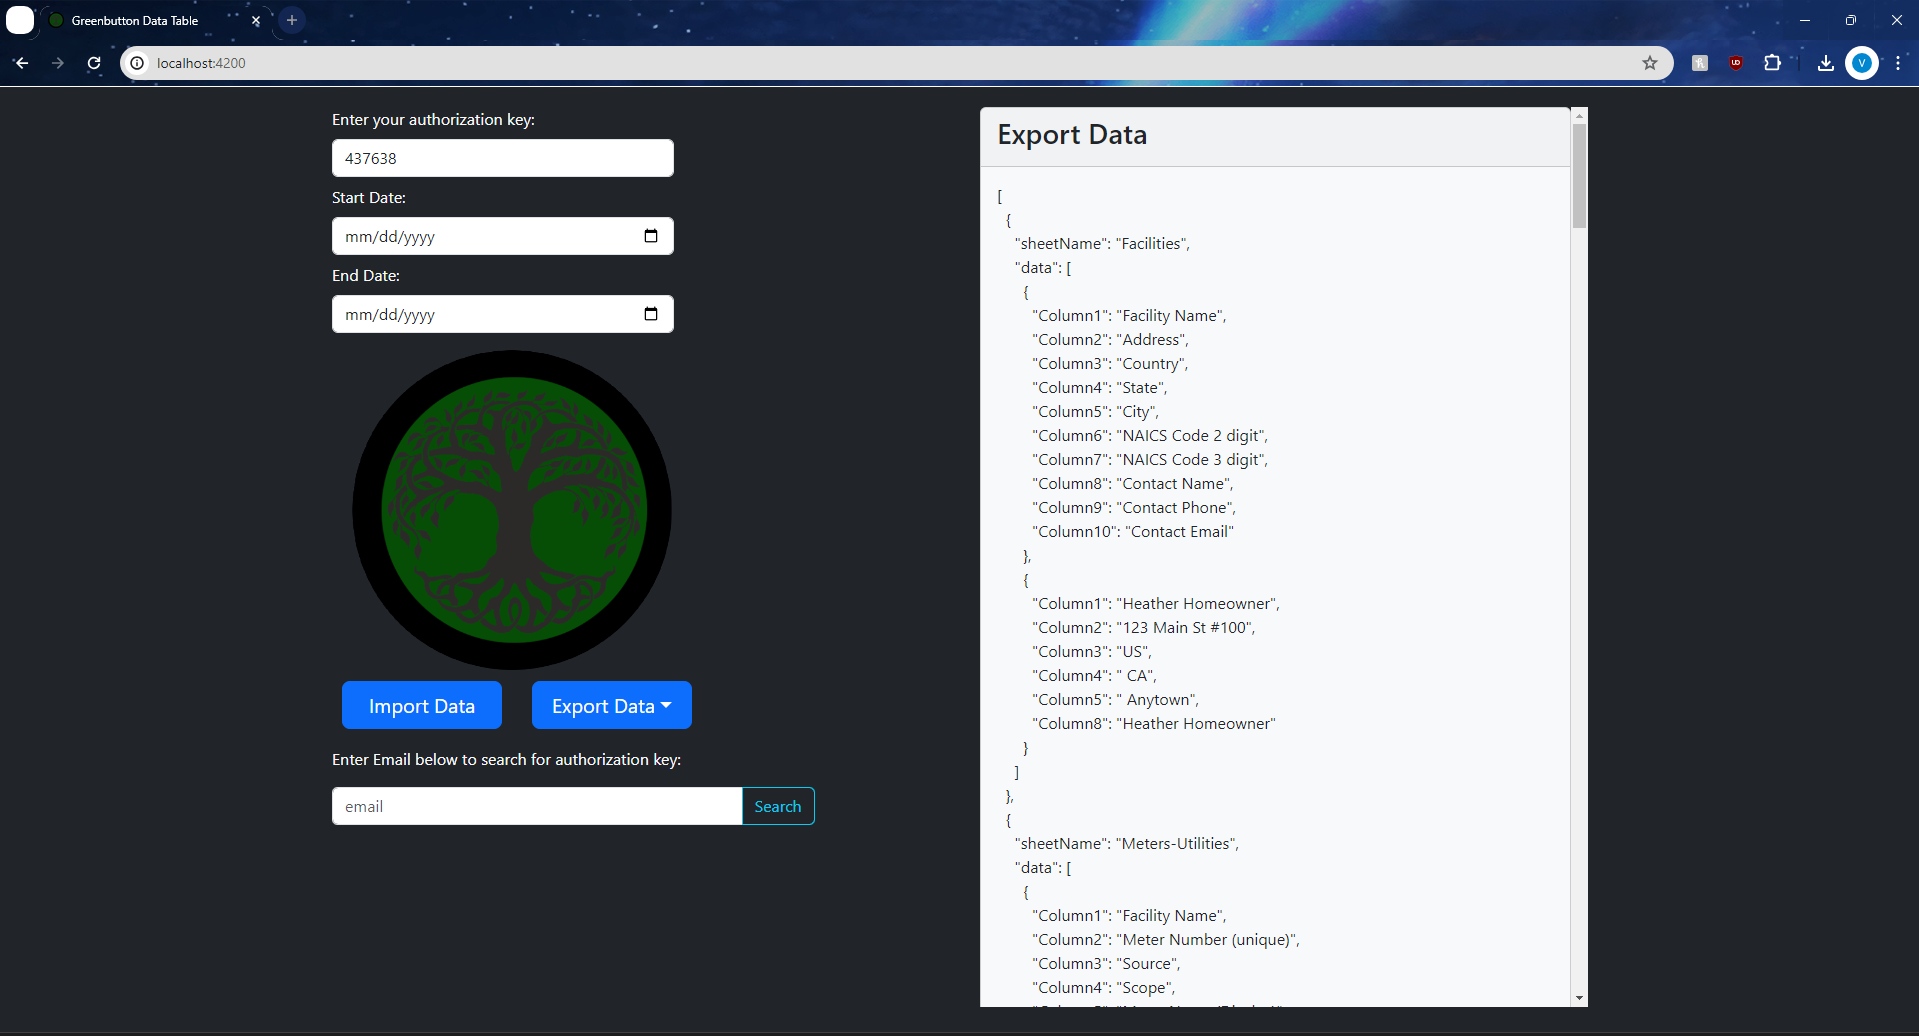
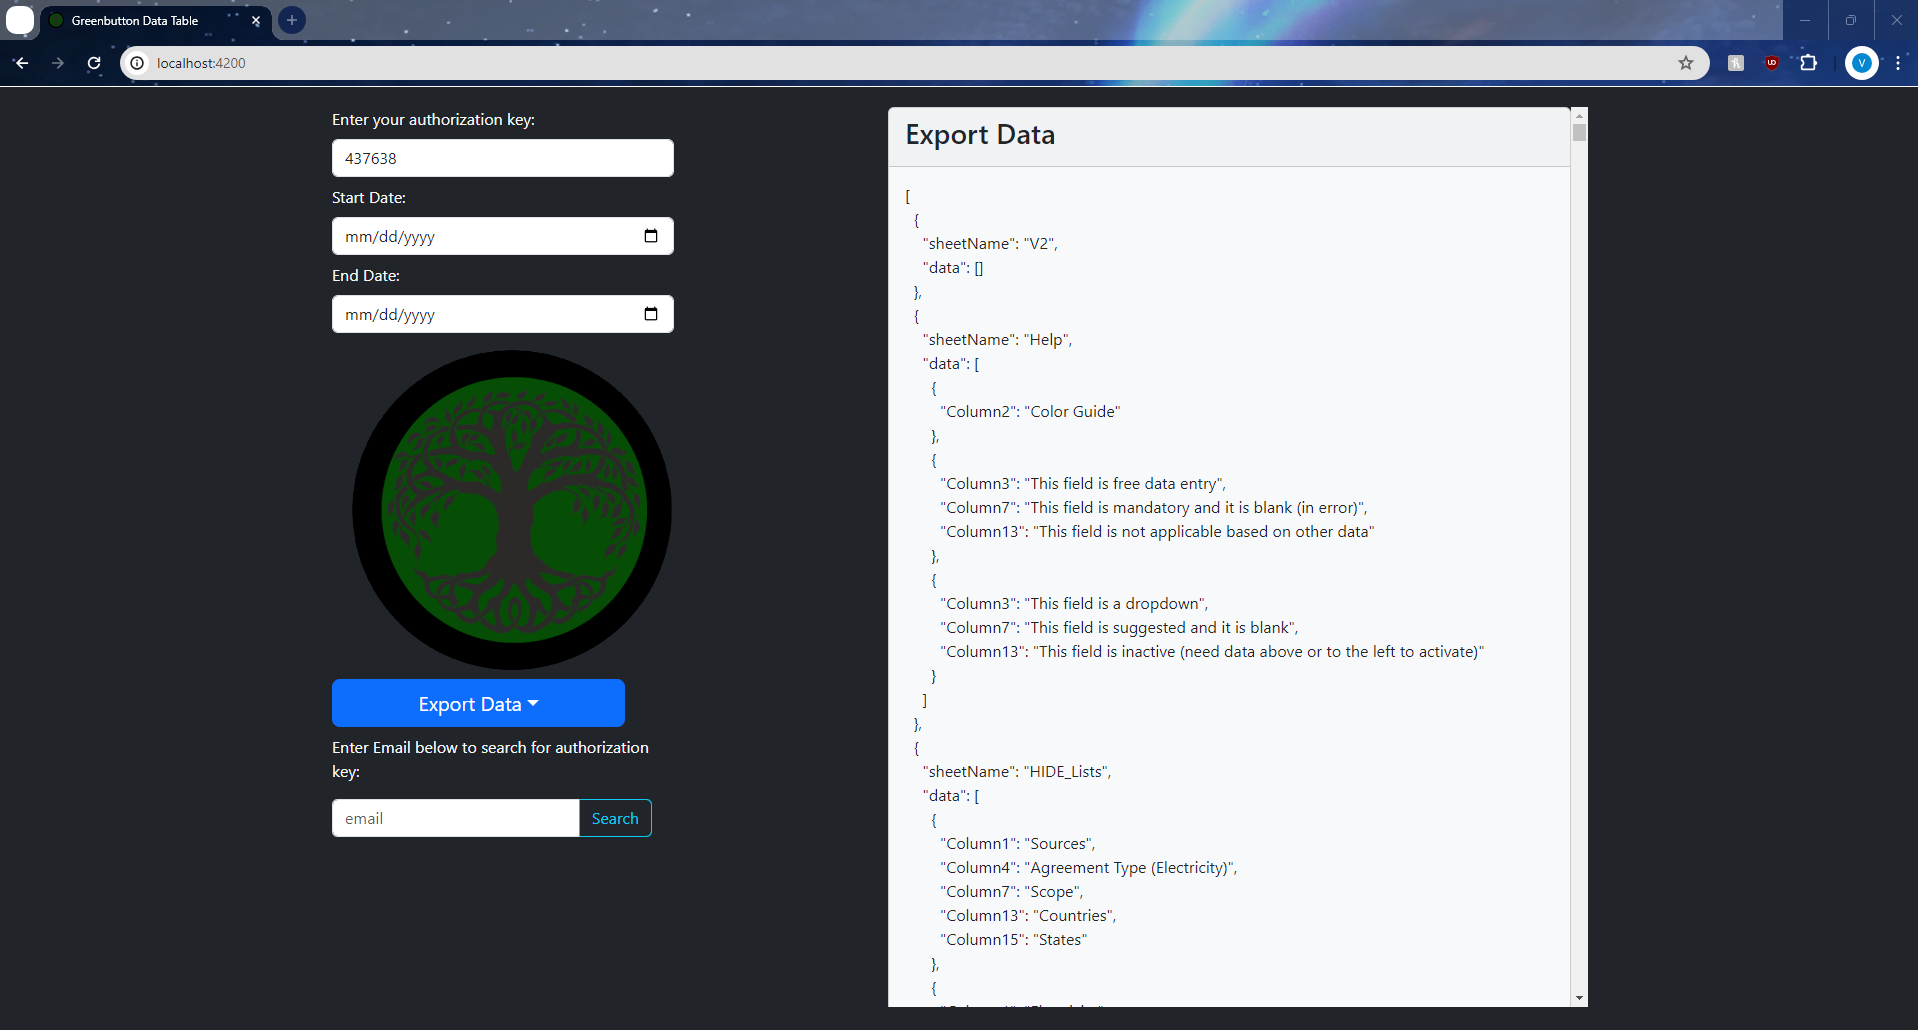
fixed export display and change Image for README

diff --git a/src/app/app.component.html b/src/app/app.component.html
@@ -26,22 +26,23 @@
             </form>
           </div>
           <div class="container">
-            <form id="inputFile" class="col-12">
+            <form id="inputFile" class="col-8">
+              <div class="row">
                 <div ngbDropdown class="export-button">
-                  <button type="button" class="btn btn-primary btn-lg col-9" id="exportDropdown"
+                  <button type="button" class="btn btn-primary btn-lg col-10 mt-2" id="exportDropdown"
                     ngbDropdownToggle>Export Data</button>
-                  <div ngbDropdownMenu aria-labelledby="exportDropdown" class="col-9">
+                  <div ngbDropdownMenu aria-labelledby="exportDropdown" class="col-10">
                     <div class="d-grid">
-                      <button ngbDropdownItem type="button" class="col-9" (click)="exportAsExcel()">Export as XLSX</button>
+                      <button ngbDropdownItem type="button" class="col-10" (click)="exportAsExcel()">Export as XLSX</button>
                       <button ngbDropdownItem type="button"  (click)="exportAsJson()">Export as JSON</button>
                       <button ngbDropdownItem type="button" (click)="exportAsXML()">Export as XML</button>
                     </div>
                   </div>
-
+                </div>
               </div>
             </form>
           </div>
-          <div class="row col-10 mt-2">
+          <div class="row col-8 mt-2">
             <p class="text-light">Enter Email below to search for authorization key:</p>
             <div id="divSearching" class="text-light" style="display: none;">
               <h4>Searching...</h4>
@@ -53,7 +54,7 @@
           </div>
         </div>
         <div class="right-section"  style="white-space: pre;">
-          <div style="max-height: 900px; overflow-y: auto;" [innerHTML]="displayFile">
+          <div style="max-height: 900px; max-width: 700px; overflow-y: auto; overflow-x: hidden;" [innerHTML]="displayFile">
 
           </div>
         </div>
